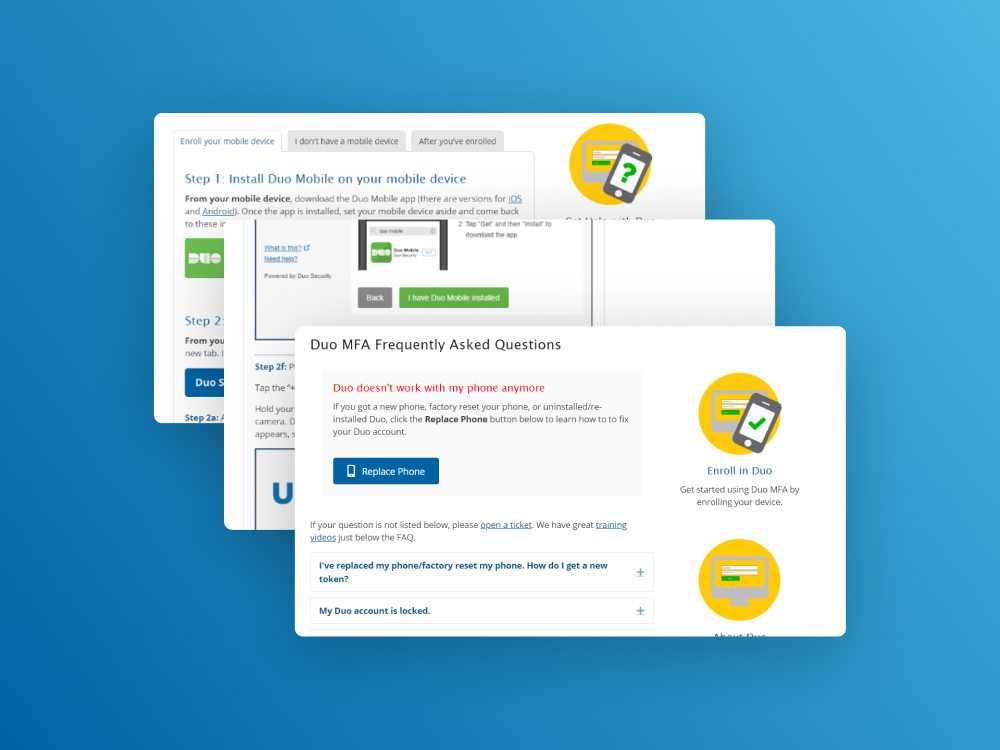
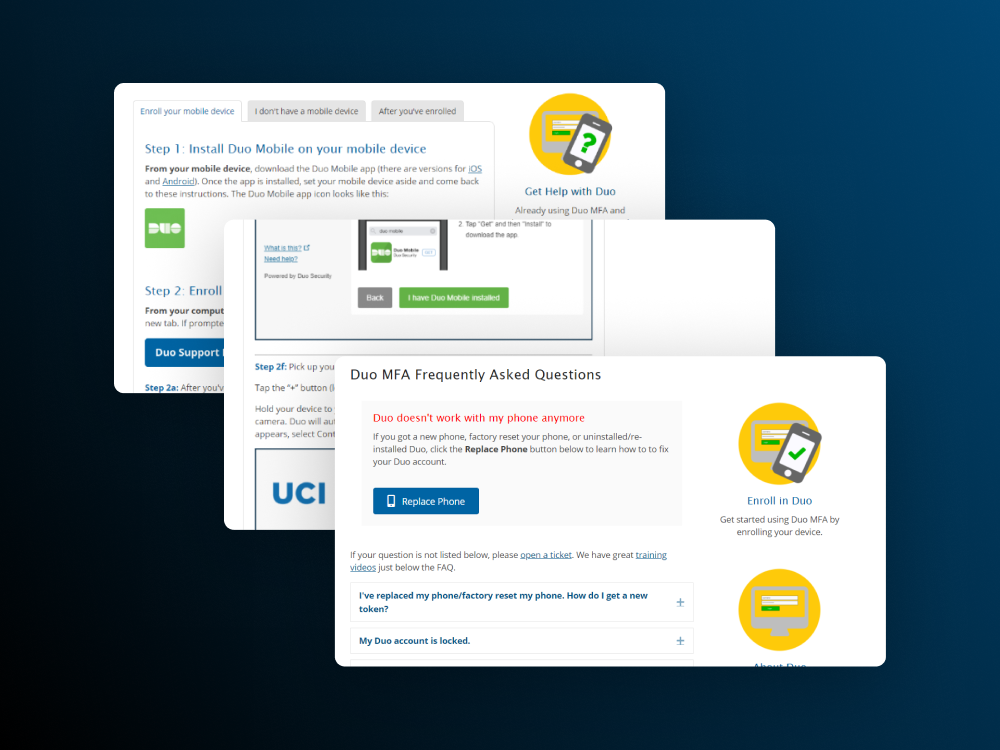
a LOT
HackUCI page added
Amazon page added
Styling changed for cards

diff --git a/index.html b/index.html
@@ -12,7 +12,7 @@
 
   </head>
 
-  
+  <!--If for some reason you chose to inspect this page... I am so sorry for the spaghetti-->
 
   <div class="navbar-container" style = "margin-bottom: 64px !important;">
       <nav class="navbar navbar-expand-sm navbar-light bg-transparent" style="padding-left:0!important;">
@@ -58,29 +58,64 @@
     <div class="cards-container">
 
       <div class="card-container">
+        <a href="amazon.html">
+        <img src = "images/index/amazon.png" class = "card-image"></img>
+        </a>
+
+        <div class="card-description">
+          <div class="card-title">Amazon</div>
+          Designed voice and gesture interactions for Amazon Echo Buds
+          <br><br><a href="amazon.html" class="card-button">read more</a>
+        </div>
+      </div>
+
+
+      <div class="card-container">
+        <a href="hack_at_uci.html">
+        <img src = "images/index/hack_at_uci.png" class = "card-image"></img>
+        </a>
+
+        <div class="card-description">
+          <div class="card-title">Hack at UCI</div>
+          As the Design Lead of Hack at UCI, I guided the organization's visual content: branding, graphics, and web design.
+          <br><br><a href="hack_at_uci.html" class="card-button">view work</a>
+        </div>
+      </div>
+
+  
+      <div class="card-container">
+        <a href="duo_help_desk.html">
         <img src = "images/index/duo_help_desk.png" class = "card-image"></img>
+        </a>
 
         <div class="card-description">
           <div class="card-title">Duo Support Website Redesign</div>
-          UX DESIGN / WEBSITE<br><br>
-          
-          The Help Desk receives an enormous amount of calls and emails asking for help with enrolling in Duo multi-factor authentication. 
+          The UCI Help Desk receives an enormous amount of calls and emails asking for help with enrolling in Duo multi-factor authentication. 
           After recognizing that many of the problems encountered by these users could be solved with better UX, I led a project to redesign their Duo support website. 
-
-          <br><br><a href="duo_help_desk.html" class="card-button" style = "background-color: #0064A4; border: 2px solid #0064A4";>read case study</a>
+          <br><br><a href="duo_help_desk.html" class="card-button">read case study</a>
         </div>
       </div>
 
+
       <div class="card-container">
+        <a href="hatched.html">
         <img src = "images/index/hatched.png" class = "card-image"></img>
+        </a>
 
         <div class="card-description">
           <div class="card-title">Hatched</div>
-          UX DESIGN / TABLET APPLICATION<br><br>
-          Hatched was designed for the Adobe x Amazon Design Creative Jam. Over 600 teams from the US, Canada, and UK competed to design an application. Our team’s application was awarded with an honorable mention and placed in the top 20.            
-          <br><br><a href="hatched.html" class="card-button" style = "background-color: #D46F13; border: 2px solid #D46F13";>read case study</a>
+          Over 600 teams from the US, Canada, and UK competed to design a tablet application for the Adobe x Amazon Design Creative Jam. Hatched was awarded with an honorable mention and placed in the top 20.            
+          <br><br><a href="hatched.html" class="card-button">read case study</a>
         </div>
       </div>
+
+    </div>
+
+    <!--<div style = "text-align: center; margin-top: 120px; margin-bottom: 48px;animation: fadeInAnimation 1s; 
+    animation-iteration-count: 1; 
+    animation-fill-mode: forwards; ">- OTHER WORKS -</div>
+    
+    <div class="cards-container">
 
       <div class="card-container">
         <img src="images/index/turnout_tracker.png" class="card-image"></img>
@@ -91,13 +126,6 @@
           <a href="turnout_tracker.html" class="card-button" style = "background-color: #00988F; border: 2px solid #00988F;">read case study</a>
         </div>
       </div>
-    </div>
-
-    <!--<div style = "text-align: center; margin-top: 120px; margin-bottom: 48px;animation: fadeInAnimation 1s; 
-    animation-iteration-count: 1; 
-    animation-fill-mode: forwards; ">- OTHER WORKS -</div>
-    
-    <div class="cards-container">
 
       <div class="card-container">
         <img src="images/index/hack_at_uci.png" class="card-image"></img>
@@ -139,8 +167,11 @@
 
     <div style="padding-top: 200px;"></div>
 
-
-
+    <!--
+    <div class="footer">
+      This is the footer
+    </div>
+    -->
     
 
     <script src="script.js"></script>

diff --git a/amazon.html b/amazon.html
@@ -48,22 +48,33 @@
           </div>
           <br>
 
-          <div class="section-container">
+          <div class = "sub-page-text" style="text-align:center;">
+            2021-2022
+          </div>
 
+          <br><br>
+
+          <div class="section-container">
             <div class = "sub-page-text">
                 <img src="images/amazon/echo_buds_2.png" style="width:100%;">
+                <br><br>
 
                 <br>
-                During summer 2021, I was a UX design intern for Amazon Alexa. My task was to create a new feature that would improve the value proposition of the already-released Echo Buds 2 and become a why-buy for future iterations of Buds. I designed two new features for buds to improve customer safety on-the-go. These features included gesture and voice design. I presented these designs to stakeholders and iterated on feedback.
+                I was a UX Design Intern for the Amazon Alexa organization in 2021 and returned as a full-time UX Designer in 2022. I designed two new features for Echo Buds 2 to improve customer safety on-the-go. These features included gesture and voice design. My design decisions were backed by customer research and I iterated my work based on feedback I received during design presentations.
+                <br><br>                
+                In addition to design, I’ve done UX research during my time at Amazon. I moderated on-site usability studies with an Alexa product prototype to measure customer satisfaction and determine if products were market-ready. I’ve also created surveys and interview questions for Qualtrics and UserTesting in order to understand customer needs and guide long-term decision making for leadership.            
                 <br><br>
-                In addition to my Echo Buds work, I independently moderated 12 on-site usability studies with an Alexa product prototype to measure customer satisfaction and pain points.
-                <br><br>
-                After graduating from UC Irvine, I rejoined as a full-time UX Designer in 2022. To help the Alexa organization generate new long-term goals, my team planned to hold an ideation workshop. For the workshop, I did research to inform customer trends, personas, and unmet needs. I aggregated research from Statista, eMarketer, and internal sources. In addition, I created a survey for qualtrics and a user interview plan for UserTesting. 
+                <strong>Due to NDA, I can’t publicly show my design process or final deliverables.</strong>
+                I’d be happy to discuss my work in more detail in an interview. 
+                Please reach out to me via <a href="https://www.linkedin.com/in/ryan-hartanto/">LinkedIn</a> or email: ryhartanto@gmail.com.
+
+
             </div>
           </div>
 
         </div>
     </div>
+    
 
 
 

diff --git a/style.css b/style.css
@@ -22,9 +22,6 @@ img {
   font-family: 'Poppins';
 }
 
-a {
-    text-decoration: none !important;
-}
 
 .page-container {
   display: grid;
@@ -36,6 +33,10 @@ a {
   animation-fill-mode: forwards; 
   margin-left: 15%;
   margin-right: 15%;
+}
+
+a {
+  text-decoration: none !important;
 }
 
 /* about page */
@@ -63,6 +64,11 @@ a {
   border-radius: 5px;
   transition: all 0.5s;
 }
+
+.ryan-image:hover{
+  border-radius: 1000px;
+}
+
 
 
 /* home page */
@@ -93,6 +99,12 @@ a {
   margin-bottom: 12px;
 }
 
+.footer {
+  margin-top: 24px;
+  text-align:center;
+  margin-bottom: 24px;
+
+}
 
 .cards-container {
   display: grid;
@@ -111,9 +123,7 @@ a {
   grid-column-gap: 24px;
   height: 375px;
   
-
   transition: 0.2s;
-
   animation: fadeInAnimation 1s; 
   animation-iteration-count: 1; 
   animation-fill-mode: forwards; 
@@ -122,38 +132,51 @@ a {
 
 .card-container:hover{
   opacity:1;
+  /*
   transform: scale(1.03);
-  box-shadow:  0px 30px 50px #d9d9d9;
+  box-shadow:  0px 30px 50px #d9d9d9;*/
 }
 
 .card-image {
+  /*border-radius: 10px 0px 0px 10px;*/
   justify-self: begin;
   width: 500px;
   height: 375px;
-  border-radius: 0x 0px 0px 0px;
-  /*background-color: white;*/
   object-fit: cover;
+
+  background-color: #303030;
+
+  transition: 0.2s;
+  animation: fadeInAnimation 1s; 
+  animation-iteration-count: 1; 
+  animation-fill-mode: forwards; 
 }
 
 .card-image:hover {
-  border-radius: 10px 0px 0px 10px;
+  border-radius: 0px;
+  transform: rotate(2deg);
+
+  background-color: #71BBD6;
 }
+
+
 
 .card-title {
   font-size: 24px;
   font-weight: bold;
-  margin-top: 24px;
 }
 
 .card-description {
-  font-size: 16px;
+  color: #303030;
+  font-size: 18px;
   margin-right: 24px;
-  align-self: start;
+  margin: auto;
+  padding-bottom: 8px;
 }
 
 .card-button {
-  background-color:#278ee3; 
-  border: 2px solid #278ee3;
+  background-color:#303030; 
+  border: 2px solid #303030;
   color: white;
   border-radius: 5px;
   padding: 10px 15px;
@@ -214,7 +237,7 @@ a {
     margin-left: 5%;
     margin-right: 5%;
   }
-
+f
   .navbar-container {
     margin-left: 5%;
     margin-right: 5%;
@@ -242,6 +265,10 @@ a {
     margin-top: 0px;
     margin-bottom: 0px;
     box-shadow: none;
+  }
+
+  .card-description{
+    padding-top:24px;
   }
 
   .card-image{

diff --git a/hack_at_uci.html b/hack_at_uci.html
@@ -61,15 +61,21 @@
         
                     <img src="images/hack_at_uci/hackuci_homepage.png" style="width:100%; box-shadow:  0px 10px 15px #d9d9d9;">
         
-                <!--
-                    <br><br><br>
-                HackUCI 2022 Sponsorship Prospectus<br>
-                (This prospectus earned HackUCI a $2.25K sponsorship from Figma)
                 
+                    <br><br><br>
+
+                <a target="_blank" href="https://www.figma.com/embed?embed_host=share&url=https%3A%2F%2Fwww.figma.com%2Fproto%2FlNXQxr3iD8rmEBFztjszL9%2FHackUCI-Figma-Sponsorship-Packet%3Fnode-id%3D2%253A2%26scaling%3Dscale-down%26page-id%3D0%253A1%26starting-point-node-id%3D2%253A2">
+                    HackUCI 2022 Sponsorship Prospectus</a><br>
+                (This prospectus earned HackUCI a $2.25K sponsorship from Figma)
+
+                
+                <div class="figma-iframe">
+                    <br>
                 <iframe style="border: 1px solid rgba(0, 0, 0, 0.1);" width="800" height="450" 
                 src="https://www.figma.com/embed?embed_host=share&url=https%3A%2F%2Fwww.figma.com%2Fproto%2FlNXQxr3iD8rmEBFztjszL9%2FHackUCI-Figma-Sponsorship-Packet%3Fnode-id%3D2%253A2%26scaling%3Dscale-down%26page-id%3D0%253A1%26starting-point-node-id%3D2%253A2" 
                 allowfullscreen></iframe>
-                -->
+                </div>
+
 
                 <br><br><br>
                 Other Graphics

diff --git a/subpage_style.css b/subpage_style.css
@@ -64,4 +64,9 @@
   margin-left: 0;
   margin-right: 0;
 }
+
+  .figma-iframe {
+    display:none;
+    visibility:hidden;
+  }
 }
